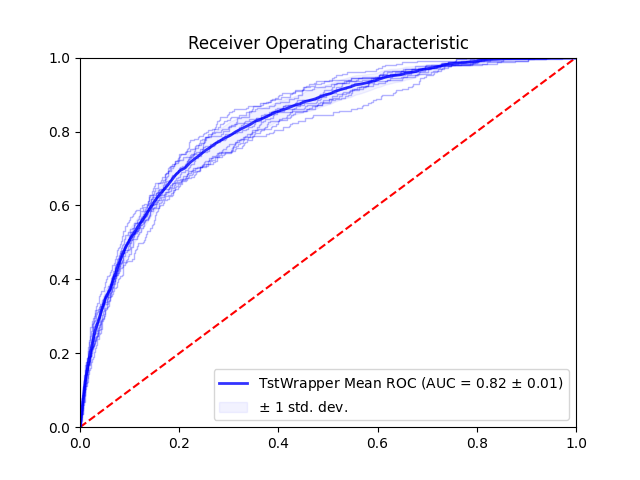
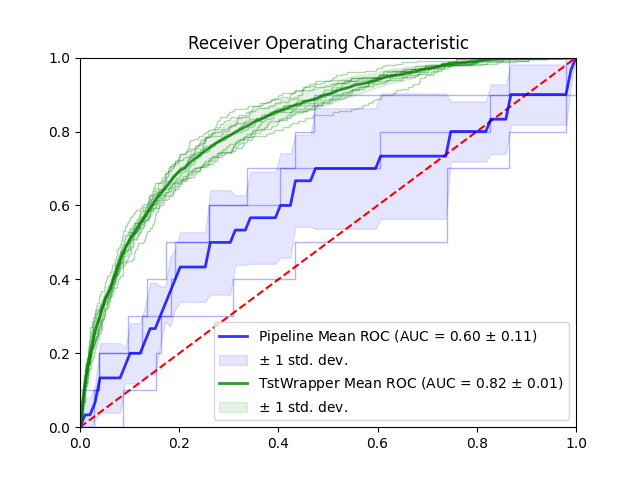
Stop multiprocessing during CV

Changed region(s): [[0.125, 0.125, 0.9062, 0.9062], [0.3125, 0.6562, 0.8438, 0.875]]

diff --git a/src/tabsep/modeling/timeseriesCV.py b/src/tabsep/modeling/timeseriesCV.py
@@ -54,7 +54,7 @@ class CVResults:
 
     def get_scorer(self) -> Callable:
         metric = lambda y_t, y_s: self.add_result(y_t, y_s)
-        return make_scorer(metric)
+        return make_scorer(metric, needs_proba=True)
 
     def print_report(self) -> None:
         aucs = np.array([res.auc for res in self.results])
@@ -303,7 +303,7 @@ def load_to_mem(dl: torch.utils.data.DataLoader):
 
 def doCV(clf, n_jobs=-1):
     cut_sample = pd.read_csv("cache/sample_cuts.csv")
-    cut_sample = cut_sample.sample(frac=0.01, random_state=42).reset_index(drop=True)
+    cut_sample = cut_sample.sample(frac=1, random_state=42).reset_index(drop=True)
 
     ds = FileBasedDataset(processed_mimic_path="./mimicts", cut_sample=cut_sample)
     dl = torch.utils.data.DataLoader(
@@ -312,11 +312,11 @@ def doCV(clf, n_jobs=-1):
 
     X, y = load_to_mem(dl)
 
-    cv_splitter = StratifiedKFold(n_splits=3, shuffle=True, random_state=42)
+    cv_splitter = StratifiedKFold(n_splits=10, shuffle=True, random_state=42)
 
     cv_res = CVResults(clf.__class__.__name__)
 
-    # Too many jobs results in OOM for TST
+    # TODO: CVResults gets copied when n_jobs > 1, breaks everything
     cross_val_score(
         clf,
         X,
@@ -336,7 +336,7 @@ if __name__ == "__main__":
     if len(sys.argv) > 1:
         model_name = sys.argv[1]
     else:
-        model_name = "TST"
+        model_name = "LR"
 
     models = {
         "LR": make_pipeline(
@@ -346,7 +346,7 @@ if __name__ == "__main__":
         "TST": TstWrapper(),
     }
 
-    job_config = {"LR": -1, "TST": 1, "XGBOOST": -1}
+    job_config = {"LR": 1, "TST": 1, "XGBOOST": -1}
 
     if model_name == "all":
 

diff --git a/src/tabsep/reporting/roccurves.py b/src/tabsep/reporting/roccurves.py
@@ -52,7 +52,7 @@ if __name__ == "__main__":
             tprs_lower,
             tprs_upper,
             color=colors[idx],
-            alpha=0.05,
+            alpha=0.1,
             label=r"$\pm$ 1 std. dev.",
         )
 
